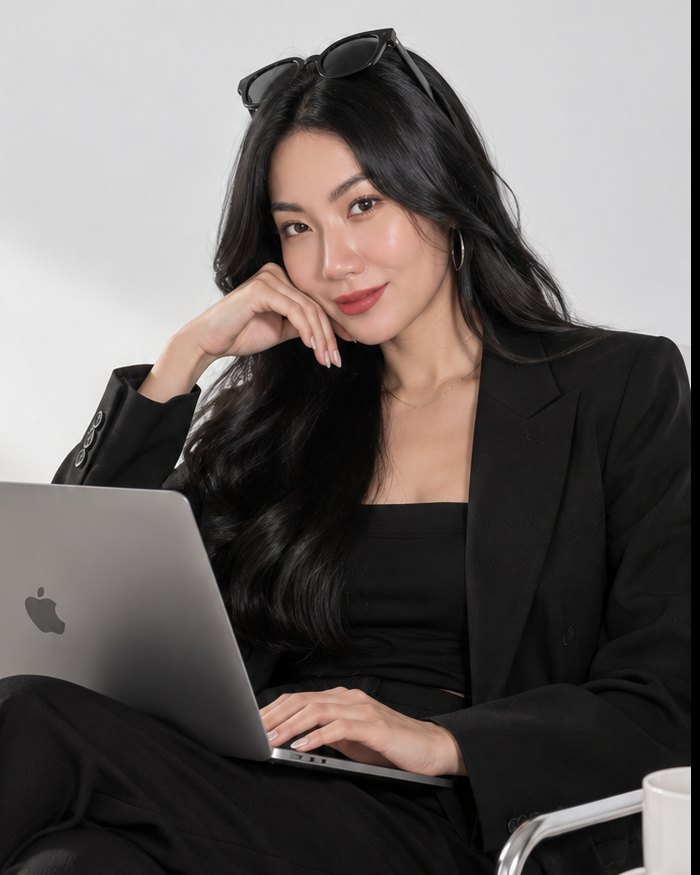
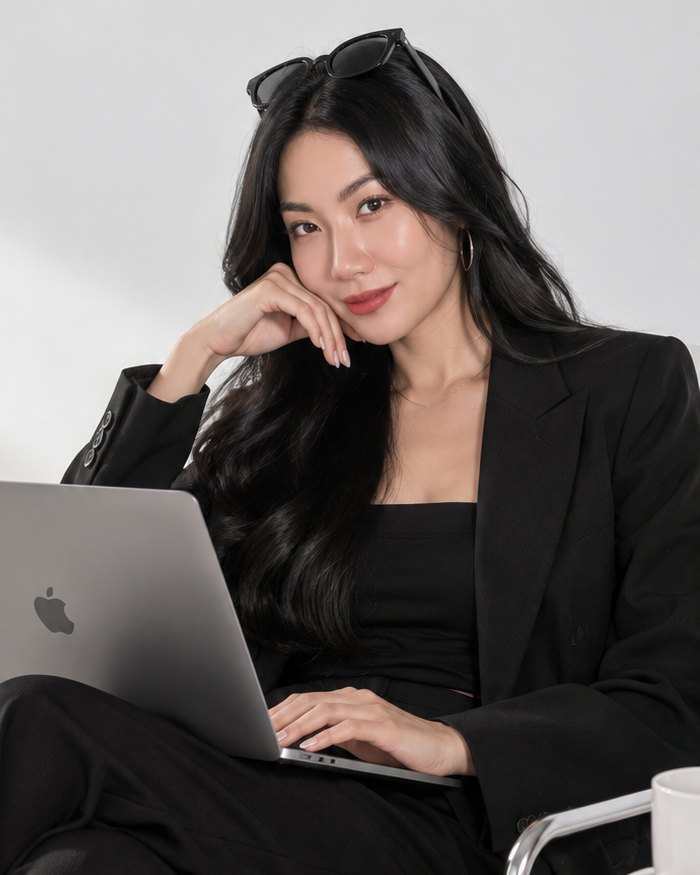
拿掉封面預約按鈕與收費 FAQ，修正講師照片黑邊
Claude-Session: https://claude.ai/code/session_01JQe2HFqrc7swKTiSVJJYrJ

diff --git a/index.html b/index.html
@@ -39,7 +39,6 @@ summary::-webkit-details-marker{display:none}
 <h1 style="margin: 0; font-size: clamp(34px, 4.4vw, 58px); line-height: 1.3; font-weight: 400; color: #1c1b22">不是免費說明會<br/>這一小時，<br/><span style="font-weight: 700">只處理妳的店</span></h1>
 <p style="margin: 0; font-size: clamp(16px, 1.4vw, 18px); line-height: 1.8; color: #4a4955; max-width: 440px">找出妳的店卡在獲客、轉單還是回流，當場教妳方法，一起做出第一步</p>
 <div style="display: flex; align-items: center; gap: 20px; flex-wrap: wrap">
-<a href="#price" style="text-decoration: none; font-size: 17px; font-weight: 700; padding: 10px 10px 10px 28px; border-radius: 999px; background: #1c1b22; color: #ffffff; min-height: 44px; box-sizing: border-box; display: inline-flex; align-items: center; gap: 16px">預約我的診斷<span style="width: 40px; height: 40px; border-radius: 999px; background: #ffcc52; display: inline-flex; align-items: center; justify-content: center"><svg width="18" height="18" viewBox="0 0 24 24" fill="none" stroke="#1c1b22" stroke-width="2.6" stroke-linecap="round" stroke-linejoin="round" aria-hidden="true"><path d="M5 12h14M13 6l6 6-6 6"></path></svg></span></a>
 <span style="font-size: 14px; color: #4a4955">線上 1 小時・每月只開 12 個名額</span>
 </div>
 </div>
@@ -274,10 +273,6 @@ summary::-webkit-details-marker{display:none}
 <details style="background: #ffffff; border: 1px solid #efeef2; border-radius: 22px; box-shadow: 0 8px 24px rgba(40,38,60,0.05); padding: 20px 24px">
 <summary style="font-size: 16px; font-weight: 700; min-height: 28px; display: flex; align-items: center">這是不是又一個要推銷課程的諮詢？</summary>
 <p style="margin: 12px 0 0; font-size: 15px; line-height: 1.8; color: #4a4955">不是，這一小時就是在處理妳的店，最後我會告訴妳接下來可以怎麼走，要不要繼續，由妳決定</p>
-</details>
-<details style="background: #ffffff; border: 1px solid #efeef2; border-radius: 22px; box-shadow: 0 8px 24px rgba(40,38,60,0.05); padding: 20px 24px">
-<summary style="font-size: 16px; font-weight: 700; min-height: 28px; display: flex; align-items: center">為什麼要收費？</summary>
-<p style="margin: 12px 0 0; font-size: 15px; line-height: 1.8; color: #4a4955">因為每一位我都會花約兩個小時準備和寫診斷表，收費也讓我們兩個都認真看待這一小時</p>
 </details>
 <details style="background: #ffffff; border: 1px solid #efeef2; border-radius: 22px; box-shadow: 0 8px 24px rgba(40,38,60,0.05); padding: 20px 24px">
 <summary style="font-size: 16px; font-weight: 700; min-height: 28px; display: flex; align-items: center">一小時真的夠嗎？</summary>
